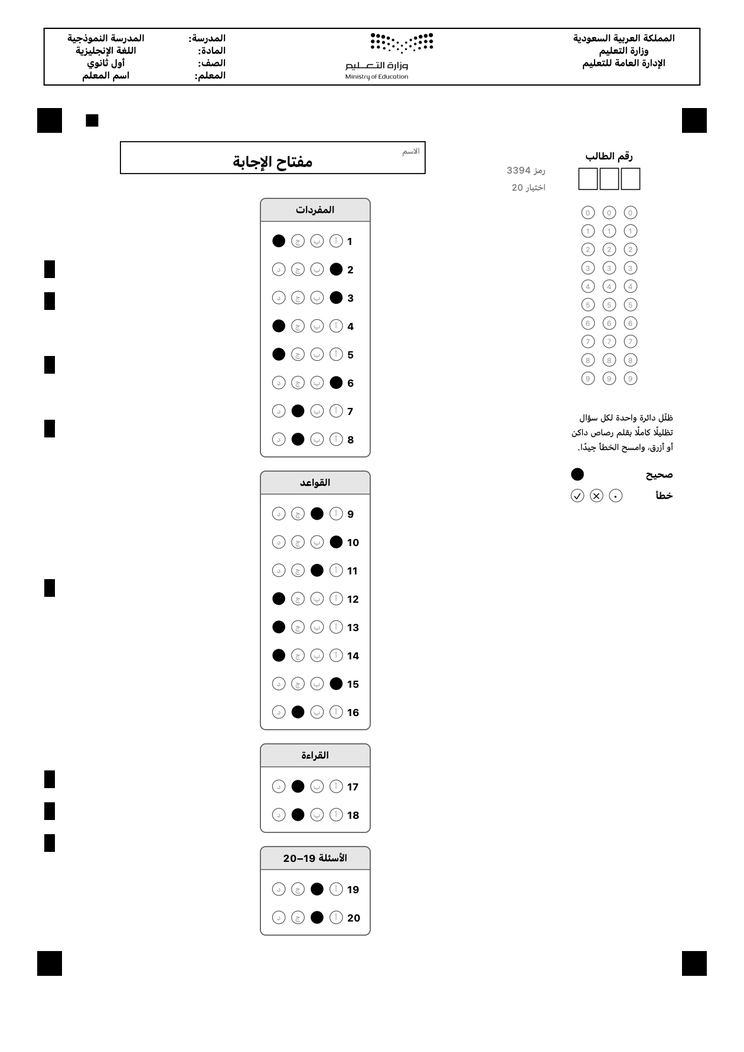
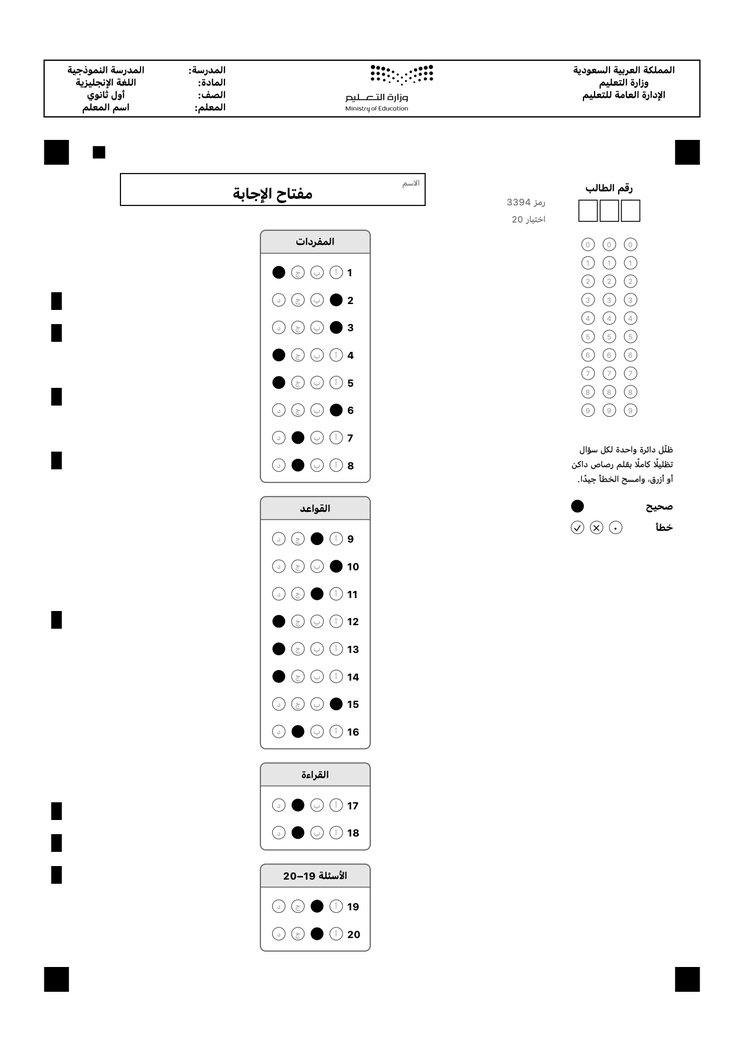
README and guide: correction copies and the graded-papers PDF; A4 chosen by the app; new answer-sheet screenshot (layout 7)

diff --git a/README.md b/README.md
@@ -26,6 +26,7 @@
 - **أسماء الطلاب تلقائيًا:** من ملف Excel أو PDF تصدّره من نور، فيعرف الفصول ويعطي كل طالب رقمه. أو بلصق الأسماء، أو بإضافة طالب يدويًا.
 - **يطبع من الجوال:** على أي طابعة AirPrint في المدرسة.
 - **يصحح بالكاميرا:** يعرف الاختبار والطالب من الورقة نفسها، فلا تختار شيئًا قبل المسح، والمسح يعمل بلا إنترنت.
+- **ورقة تصحيح لكل طالب:** صورة ورقته واضحة، وعليها دائرة خضراء على الجواب الصحيح، وحمراء على الاختيار الخاطئ أو الحرف الزائد، ودرجة كل فقرة، ودرجته من الدرجة الكلية. وأوراق الاختبار كلها في ملف PDF واحد بترتيب الطلاب، مرجعًا إن سُئلت عن تصحيح ورقة.
 - **النتائج:** درجة كل طالب، والإحصاءات، وتحليل كل سؤال، وسجل Excel فيه ورقة لكل فصل.
 - **بياناتك عندك:** كل شيء في جوالك، بلا حساب ولا خادم ولا اشتراك، مع نسخة احتياطية إلى «الملفات» أو iCloud.
 
@@ -87,7 +88,7 @@
 - **عدد الأسئلة:** من 5 إلى 60 في الاختبار الواحد، والبدائل أربعة على الأكثر.
 - **الكتاب:** ثلاثون صفحة على الأكثر للاختبار الواحد.
 - **الفصول والطلاب:** أرقام الطلاب من ثلاث خانات، الأولى رقم الفصل. فالفصول تسعة على الأكثر في السنة الواحدة، و99 طالبًا على الأكثر في الفصل.
-- **الطباعة:** على ورق A4 بمقياس 100٪. والتصغير «ليناسب الصفحة» يفسد قراءة الورقة. ومنذ النسخة 2.3 يختار التطبيق ورق A4 بنفسه عند الطباعة، لأن ورق Letter يقص مربعي الزاويتين السفليين فلا تُقرأ الورقة. ومنذ النسخة 2.4 (شكل الورقة 6) تقع الحواف الخارجية لمربعات الزوايا على حافتي رأس الورقة، والهامش تحت المربعين السفليين يساوي الهامش فوق الرأس. ومنذ النسخة 2.5 (شكل الورقة 7) صار الهامشان 17 مم، لأن طابعات كثيرة لا تطبع آخر 12 مم من ورقة A4. ومنذ النسخة 2.6 تظهر كل ورقة ممسوحة ورقةَ تصحيح: دائرة خضراء على الجواب الصحيح، وحمراء على الاختيار الخاطئ أو الحرف الزائد، ودرجة كل فقرة بجانبها، ودرجة الطالب من الدرجة الكلية. وصورتها من لقطة كاملة الدقة بـ 8 نقاط لكل مم، وزر «الأوراق المصححة (PDF)» في صفحة الاختبار يجمع أوراق الطلاب كلها في ملف PDF واحد بترتيب الفصول والقوائم.
+- **الطباعة:** على ورق A4 بمقياس 100٪، والتطبيق يختار A4 بنفسه. والتصغير «ليناسب الصفحة» يفسد قراءة الورقة.
 - **صحة الأسئلة:** الأسئلة المكتوبة بالذكاء الاصطناعي مسودة، والمعلم مسؤول عن مراجعتها قبل اعتمادها.
 
 ## للمطورين

diff --git a/دليل-الاستخدام.md b/دليل-الاستخدام.md
@@ -151,7 +151,7 @@
 | أوراق الإجابة — الفصل | ورقة لكل طالب، باسمه ورقمه مظللًا مسبقًا |
 | ورقة إجابة فارغة | لطالب جديد أو ورقة احتياط، فيظلّل الطالب رقمه بنفسه |
 
-اضغط الورقة فتفتح نافذة الطباعة. اختر الطابعة وعدد النسخ، واطبع على ورق **A4** بمقياس **100٪** بلا تصغير. والضغط المطوّل على الورقة يشاركها ملف PDF.
+اضغط الورقة فتفتح نافذة الطباعة. اختر الطابعة وعدد النسخ، واطبع على ورق **A4** بمقياس **100٪** بلا تصغير، والتطبيق يختار A4 بنفسه. والضغط المطوّل على الورقة يشاركها ملف PDF.
 
 ---
 
@@ -177,7 +177,8 @@
 
 - **الإحصاءات:** عدد الأوراق، والمتوسط، والأعلى، والأدنى.
 - **تحليل الأسئلة:** لكل سؤال نسبة من أجاب صحيحًا، وعدد من اختار كل بديل.
-- **النتائج:** اضغط على أي طالب لترى ورقته الممسوحة وإجاباته. ويمكنك تصحيح قراءة خاطئة، أو ربط ورقة رقمها غير معروف بطالبها.
+- **النتائج:** اضغط على أي طالب لترى ورقته مصححة: دائرة خضراء على الجواب الصحيح، وحمراء على الاختيار الخاطئ أو الحرف الزائد، ودرجة كل فقرة بجانبها، ودرجته من الدرجة الكلية. ويمكنك تصحيح قراءة خاطئة، أو ربط ورقة رقمها غير معروف بطالبها.
+- **الأوراق المصححة (PDF):** ملف واحد فيه ورقة كل طالب مصححة، صفحة لكل طالب، بترتيب الفصول والقوائم. احفظه في «الملفات» مرجعًا إن سُئلت عن تصحيح ورقة، أو اطبعه.
 - **مشاركة السجل (Excel):** ملف فيه ورقة لكل فصل، ودرجة كل طالب في كل سؤال، ومجموع كل قسم.
 
 ---
